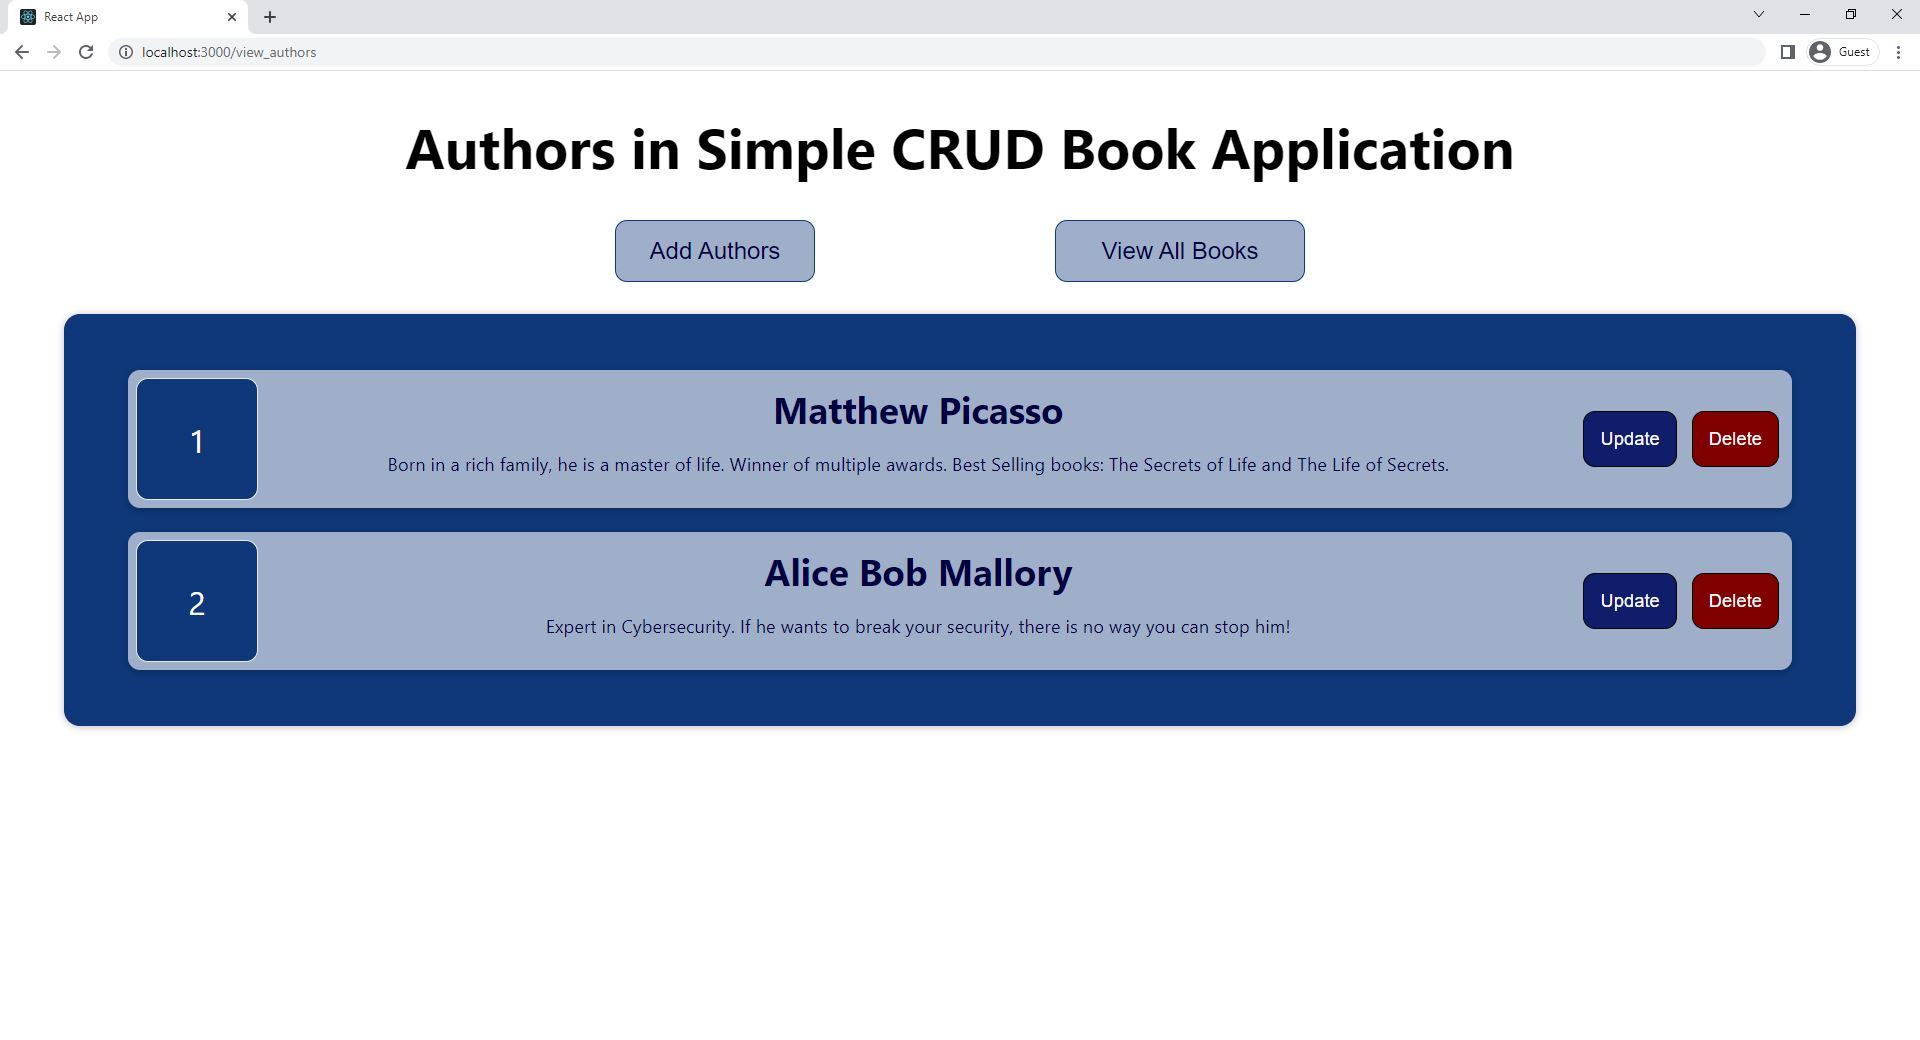
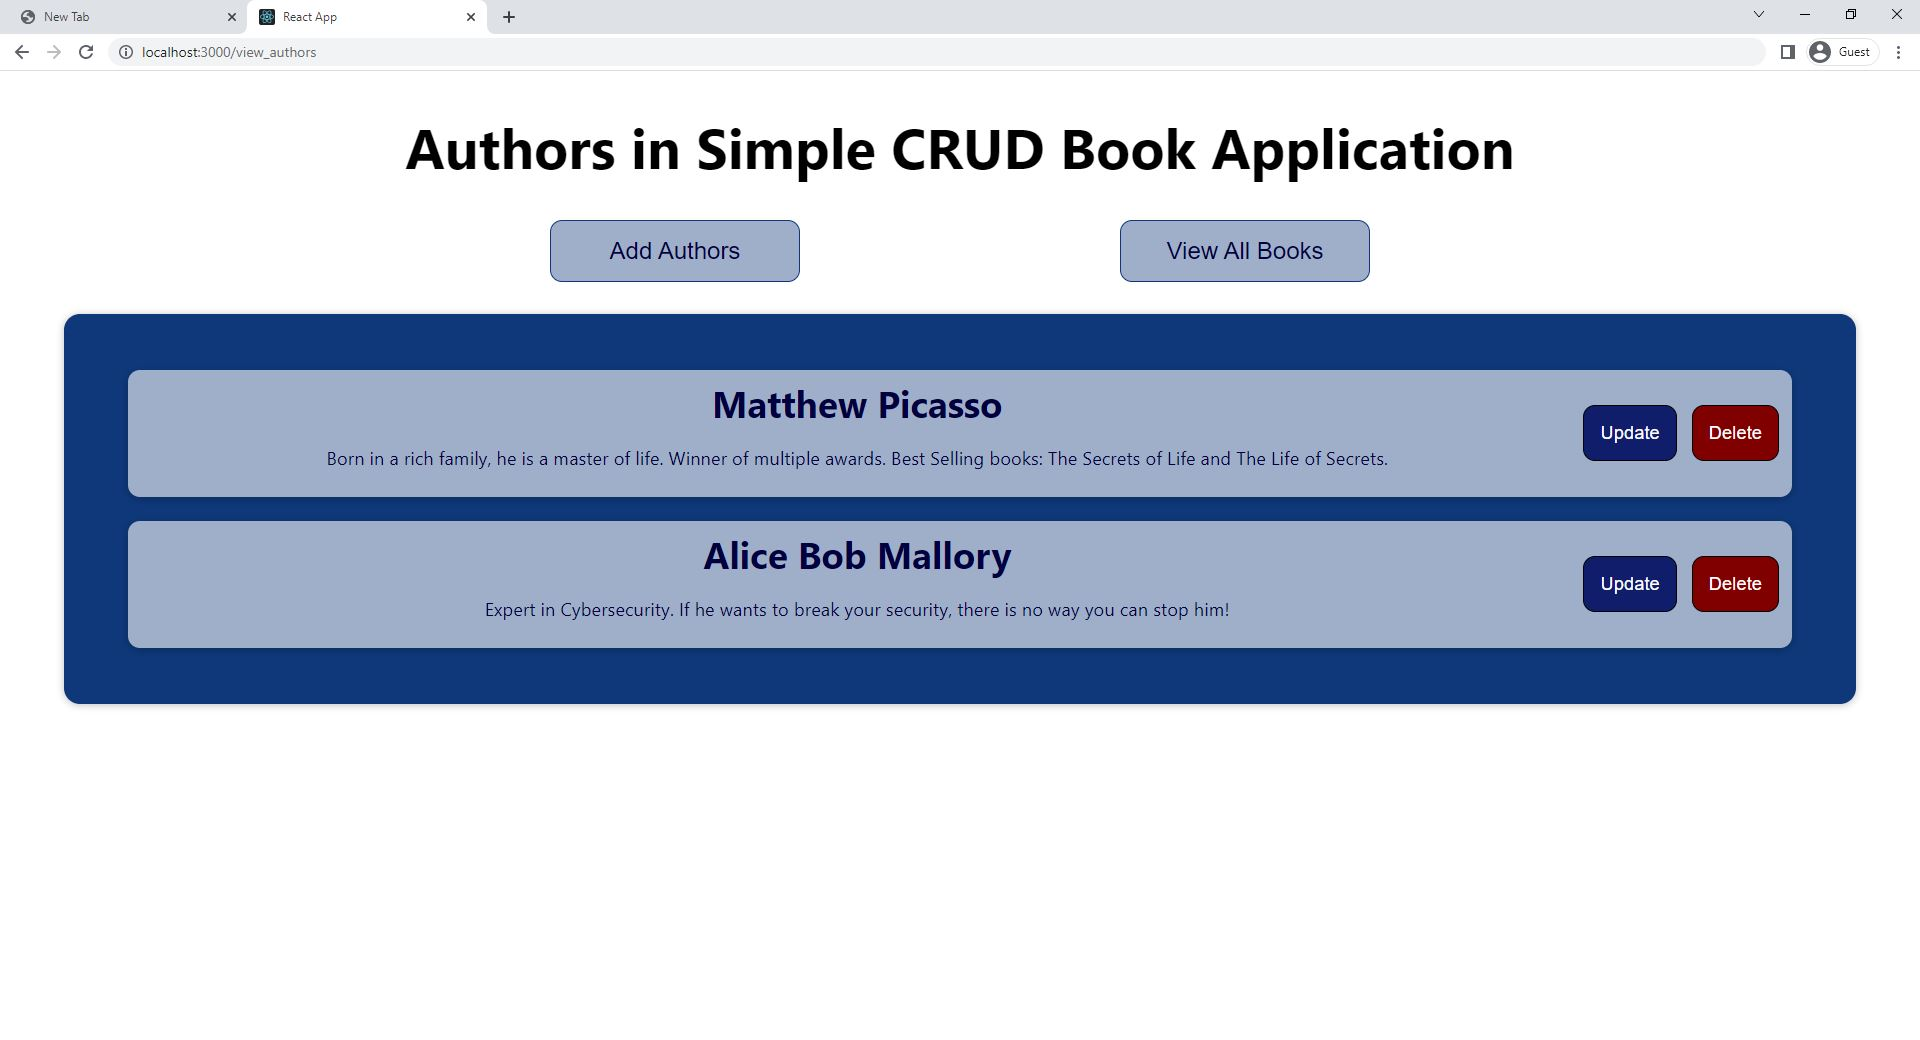
final changes

diff --git a/frontend/src/ui/buttons/BackButton.module.css b/frontend/src/ui/buttons/BackButton.module.css
@@ -3,7 +3,7 @@
     cursor: pointer;
     padding: 1rem;
     border: 1px solid black;
-    background-color: #101d6b;
+    background-color: #0e387a;
     color: white;
     border-radius: 12px;
     width: auto;
@@ -12,9 +12,8 @@
     margin-right: 15px;
 }
 
-._button :link,
-.button :visited,
-.button:checked {
+.button :link,
+.button :visited{
     color: inherit;
     text-decoration: none;
 }

diff --git a/frontend/src/ui/buttons/FormButton.module.css b/frontend/src/ui/buttons/FormButton.module.css
@@ -6,8 +6,7 @@
     padding: 0.25rem 1rem;
     cursor: pointer;
     font-weight: 500;
-    margin-left: 10rem;
-    margin-right: 8rem;
+    margin-left: 14rem;
   }
   
   .button:hover,
